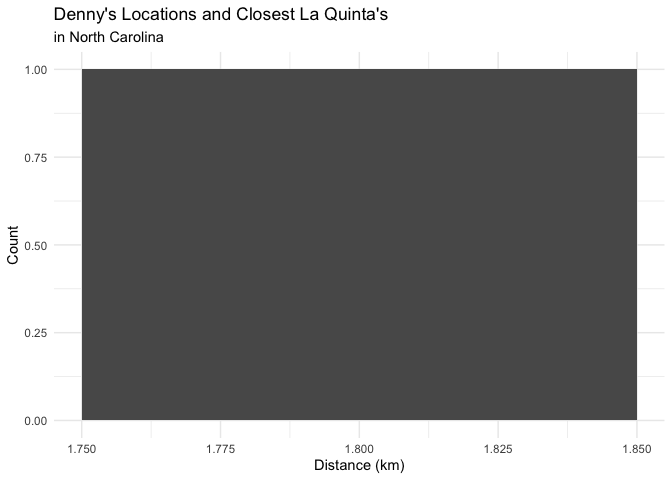
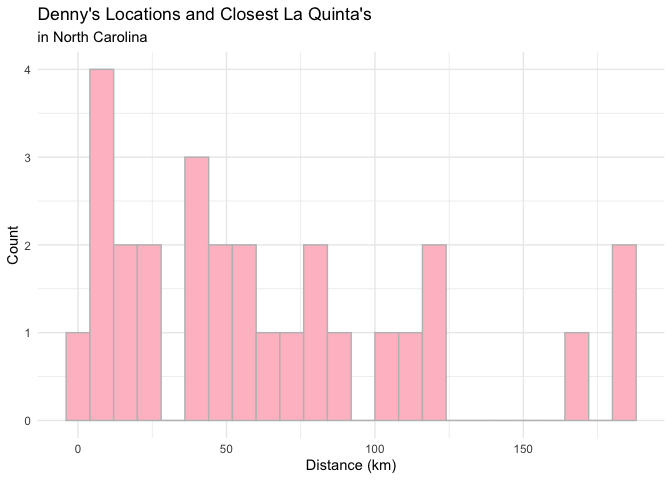
fixed ex 9

diff --git a/lab-05.md b/lab-05.md
@@ -167,11 +167,11 @@ sd(dn_lq_ak_mindist$closest)
 ``` r
 dn_lq_ak_mindist %>% 
   ggplot(aes(x = closest)) +
-  geom_histogram(binwidth = 1) +
+  geom_histogram(binwidth = .5, fill = "tomato", color = "grey") +
   labs(
     title = "Denny's Locations and Closest La Quinta's",
     subtitle = "in Alaska",
-    x = "Distance (km)",
+    x = "Distance (km)", 
     y = "Count"
   ) +
   theme_minimal()
@@ -183,11 +183,8 @@ dn_lq_ak_mindist %>%
 
 ``` r
 #filter dn and lq for NC
-dn_nc <- dn %>% 
-  filter(state == "NC")
-
-lq_nc <- lq %>% 
-  filter(state == "NC")
+dn_nc <- dn %>% filter(state == "NC")
+lq_nc <- lq %>% filter(state == "NC")
 
 #join df to get complete list of all possible pairings
 dn_lq_nc <- full_join(dn_nc, lq_nc, by = "state")
@@ -200,13 +197,10 @@ dn_lq_nc <- full_join(dn_nc, lq_nc, by = "state")
     ##   "many-to-many"` to silence this warning.
 
 ``` r
-#calculate all distances
-dn_lq_nc <- dn_lq_nc %>%
-  mutate(distance = haversine(longitude.x, latitude.x, longitude.y, latitude.y))
-
-#find minimum distances
-dn_lq_nc_mindist <- dn_lq_nc %>% 
+#calculate all distances and minimum distance per Denny's
+dn_lq_nc_mindist <- dn_lq_nc %>%
   mutate(distance = haversine(longitude.x, latitude.x, longitude.y, latitude.y)) %>% 
+  group_by(address.x) %>% 
   summarise(closest = min(distance))
 
 #summary stats
@@ -214,19 +208,19 @@ summary(dn_lq_nc_mindist$closest)
 ```
 
     ##    Min. 1st Qu.  Median    Mean 3rd Qu.    Max. 
-    ##   1.779   1.779   1.779   1.779   1.779   1.779
+    ##   1.779  22.388  53.456  65.444  93.985 187.935
 
 ``` r
 sd(dn_lq_nc_mindist$closest)
 ```
 
-    ## [1] NA
+    ## [1] 53.42398
 
 ``` r
 #plot
 dn_lq_nc_mindist %>% 
   ggplot(aes(x = closest)) +
-  geom_histogram() +
+  geom_histogram(binwidth = 8, fill = "pink", color = "grey") +
   labs(
     title = "Denny's Locations and Closest La Quinta's",
     subtitle = "in North Carolina",
@@ -235,8 +229,6 @@ dn_lq_nc_mindist %>%
   ) +
   theme_minimal()
 ```
-
-    ## `stat_bin()` using `bins = 30`. Pick better value `binwidth`.
 
 ![](lab-05_files/figure-gfm/unnamed-chunk-2-1.png)<!-- -->
 
